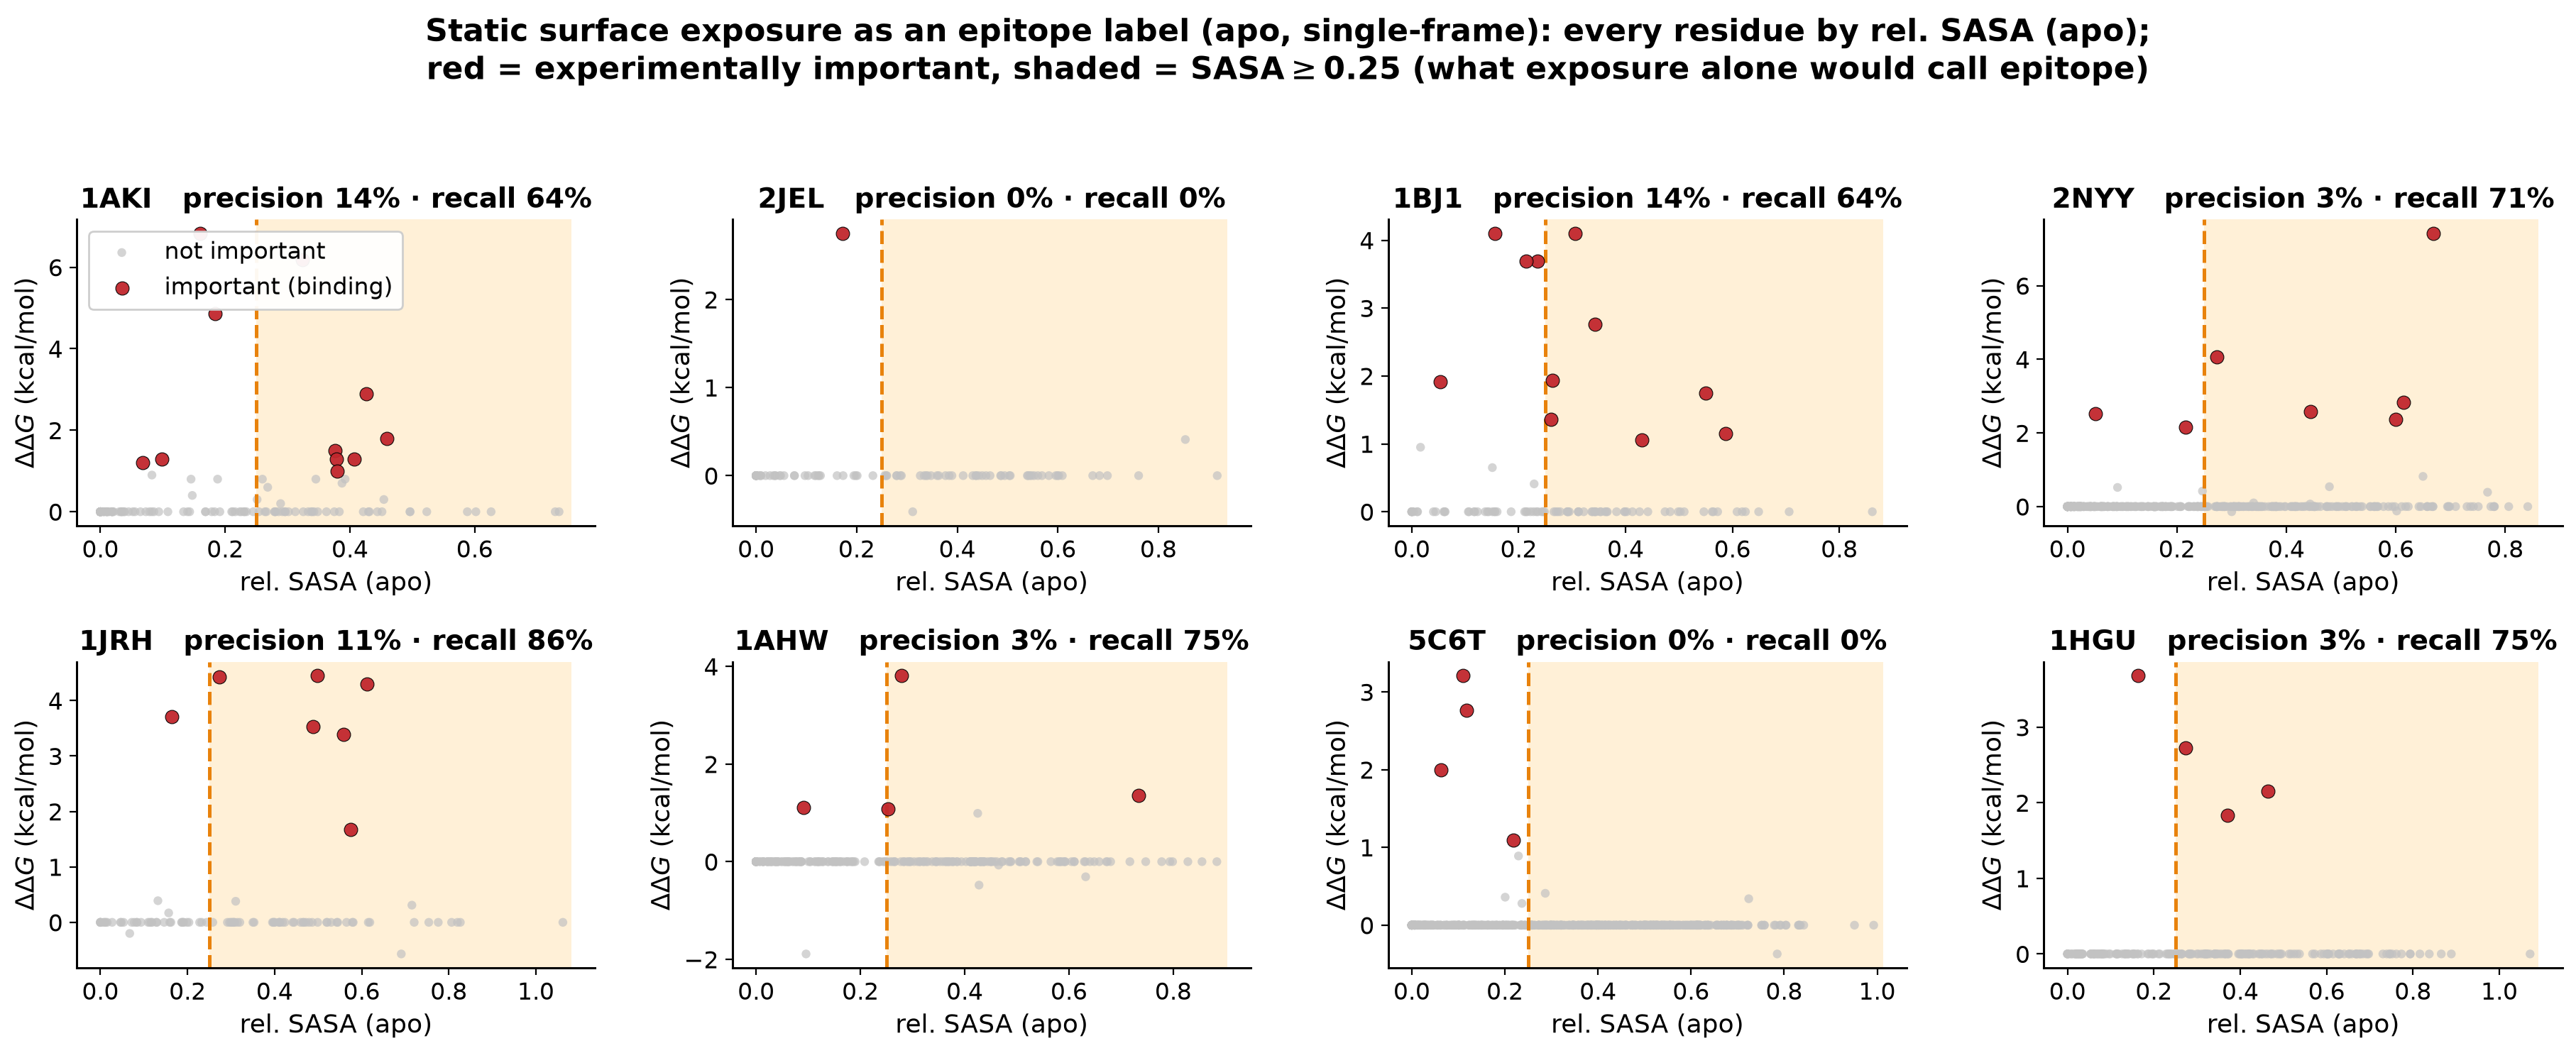
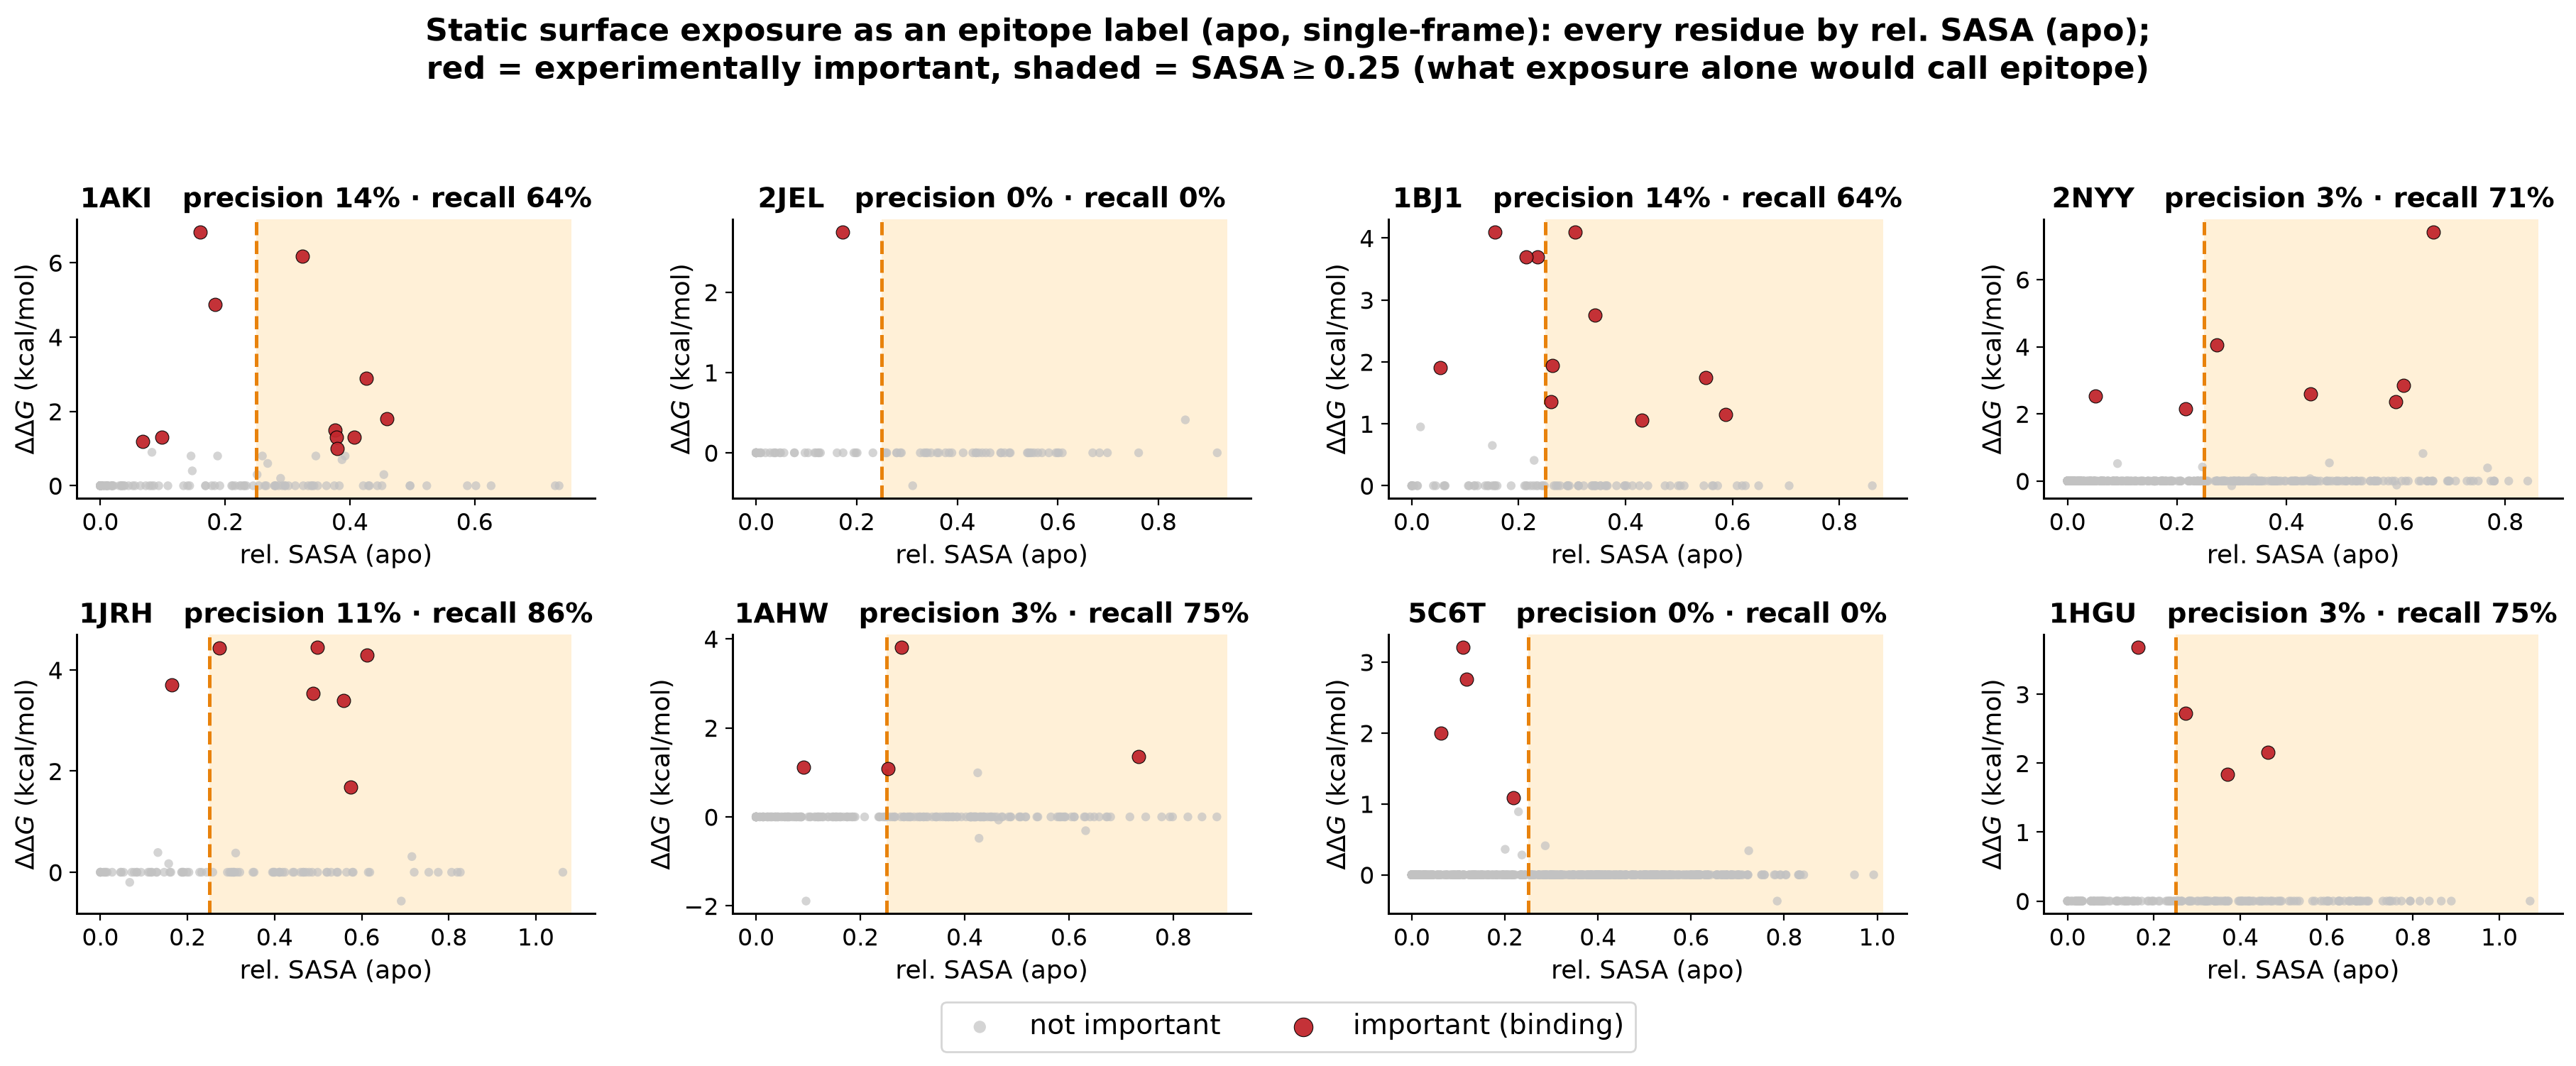
Move SASA-plot legends outside the axes (stop hiding data)
Pooled: legend to the right of the axes; per-antigen grid: one figure-level legend below
all panels. The grey not-important band spans the whole x-range, so any in-axes legend
clipped data -- now nothing is covered.

diff --git a/analysis/plot_feature_vs_label.py b/analysis/plot_feature_vs_label.py
@@ -150,13 +150,16 @@ def main():
         ax.set_xlabel(args.label, fontsize=13)
         ax.set_ylabel(r"$\Delta\Delta G$ (kcal/mol)", fontsize=13)
         ax.tick_params(labelsize=12)
-    axes[0][0].legend(fontsize=12, loc="upper left", framealpha=0.95)
     for j in range(len(keys), nrow * ncol):
         axes[j // ncol][j % ncol].axis("off")
+    # single figure-level legend BELOW the grid (outside all panels -> hides no data)
+    handles, labs = axes[0][0].get_legend_handles_labels()
+    fig.legend(handles, labs, loc="lower center", ncol=2, fontsize=14, frameon=True,
+               markerscale=1.4, bbox_to_anchor=(0.5, 0.005))
     fig.suptitle(f"Static surface exposure as an epitope label (apo, single-frame): every residue by "
                  f"{args.label};\nred = experimentally important, shaded = SASA$\\geq${thr} "
                  f"(what exposure alone would call epitope)", fontsize=16, fontweight="bold")
-    fig.tight_layout(rect=[0, 0, 1, 0.95])
+    fig.tight_layout(rect=[0, 0.05, 1, 0.95])
     p1 = outdir / "sasa_allres_per_antigen.png"
     fig.savefig(p1, dpi=200); plt.close(fig)
 
@@ -186,8 +189,9 @@ def main():
            f"$\\Rightarrow$ precision {prec_all:.0%}    recall {recall_all:.0%}")
     ax.text(0.035, 0.97, txt, transform=ax.transAxes, ha="left", va="top", fontsize=14.5,
             bbox=dict(boxstyle="round,pad=0.5", fc="white", ec="#999", alpha=0.97))
-    ax.legend(fontsize=14, loc="lower right", framealpha=1.0, markerscale=1.3,
-              title="shaded = SASA $\\geq$ 0.25 (exposure's call)", title_fontsize=12)
+    ax.legend(fontsize=13.5, loc="upper left", bbox_to_anchor=(1.01, 1.0), framealpha=1.0,
+              markerscale=1.3, title="shaded = SASA $\\geq$ 0.25\n(exposure's epitope call)",
+              title_fontsize=12, borderaxespad=0)
     ax.margins(x=0.02)
     fig2.tight_layout(); p2 = outdir / "sasa_allres_pooled.png"
     fig2.savefig(p2, dpi=220); plt.close(fig2)